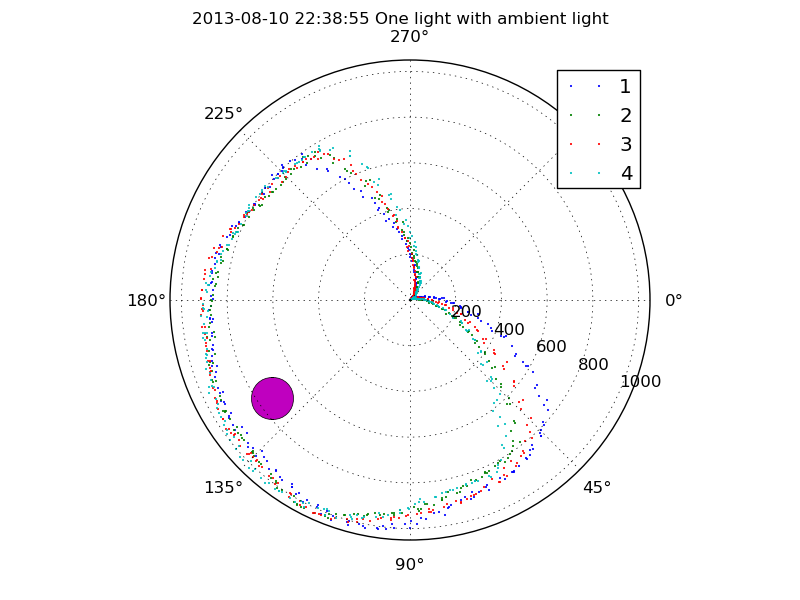
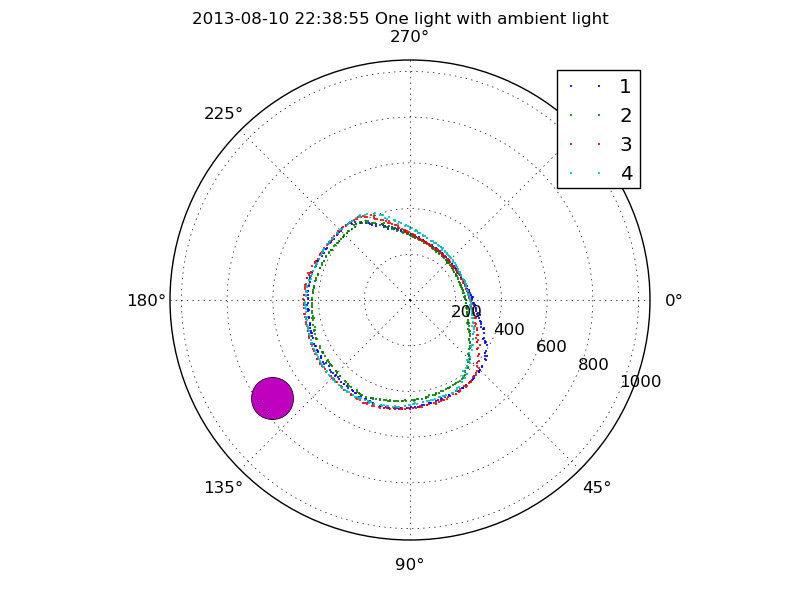
Added more PNG captures with the data not normalized

diff --git a/Software/LDR_process.py b/Software/LDR_process.py
@@ -55,8 +55,8 @@ for LDR_DF in getFilesInDir(LDR_DF_PATH):
     
     # Normalize sensor values
     # NOTE: Here we are using all the values, the robot only has an incremental sequence
-    for i in range(len(LDR_raw[0,:])):
-        LDR_raw[:,i] = mapVals(LDR_raw[:,i], LDR_raw[:,i].min(), LDR_raw[:,i].max(), 0.0, 1023.0)
+    #for i in range(len(LDR_raw[0,:])):
+    #    LDR_raw[:,i] = mapVals(LDR_raw[:,i], LDR_raw[:,i].min(), LDR_raw[:,i].max(), 0.0, 1023.0)
     
     
     fig = plt.figure()
